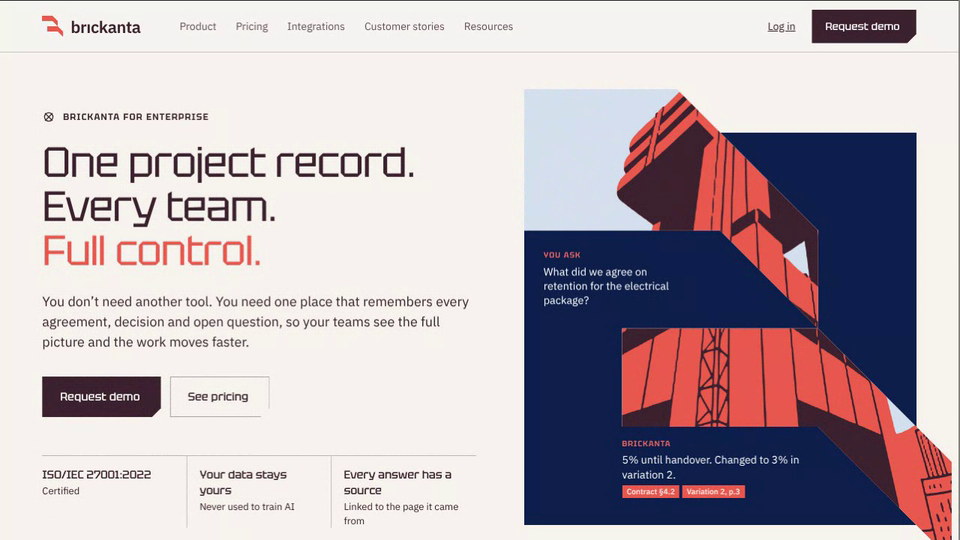
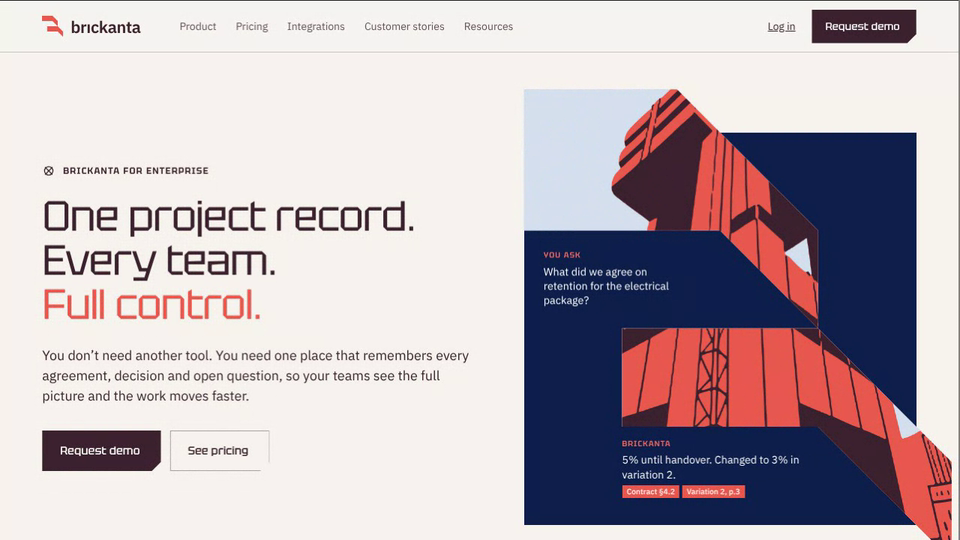
Brickanta Enterprise: remove hero facts row and cost numerals, crop hairline in the hero window
Claude-Session: https://claude.ai/code/session_01AHeBdyM2bYAGUeyg7LiTk8

diff --git a/brickanta-enterprise/index.html b/brickanta-enterprise/index.html
@@ -77,11 +77,6 @@ header nav a{text-decoration:none;opacity:.78}header nav a:hover{opacity:1;text-
 .hero h1{font-size:clamp(30px,4.4vw,68px);margin:22px 0 26px}
 .hero h1 span{display:block;white-space:nowrap}
 .hero h1 em{font-style:normal;color:var(--coral)}
-.facts{display:grid;grid-template-columns:repeat(3,1fr);margin-top:clamp(32px,4vw,56px);font-size:13px;line-height:1.4}
-.facts div{padding:16px 16px 0 0;position:relative}
-.facts div+div{padding-left:16px;border-left:1px solid rgba(60,34,46,.25)}
-.facts b{display:block;font-weight:500;font-size:15px;margin-bottom:2px}
-.hl.top{position:absolute;left:0;right:0;top:0}
 
 /* the mark as a window: coral tile, the logo's two shapes cut out, a scene seen through them */
 .tile{align-self:start;margin-top:30px;position:relative;aspect-ratio:1;background:var(--navy);width:100%;max-width:560px;justify-self:end}
@@ -91,21 +86,20 @@ header nav a{text-decoration:none;opacity:.78}header nav a:hover{opacity:1;text-
 .tile .in-a{transform:translate(-34%,-34%)}.tile .in-b{transform:translate(34%,34%)}
 .tile.go .in-a,.tile.go .in-b{transform:none}
 .tile .lines{position:absolute;inset:0;color:var(--navy);opacity:.16;background-size:auto}
-.tile .scene{position:absolute;inset:0;width:100%;height:100%}
+.tile .scene{position:absolute;left:-2%;top:-2%;width:104%;height:104%}
 .msg{z-index:3;position:absolute;font-size:clamp(11px,1.12vw,14.5px);line-height:1.35;color:#fff}
 .msg small{display:block;font-size:.72em;letter-spacing:.1em;text-transform:uppercase;font-weight:600;color:var(--coral2);margin-bottom:.45em}
 .msg .src{display:inline-block;margin-top:.5em;padding:.15em .6em;background:var(--coral);color:#fff;font-size:.72em;font-weight:500}
 .mA{left:5%;top:30%;width:38%}
 .mB{left:25%;top:78%;width:50%}
 .tile .tag{position:absolute;right:5%;bottom:4%;font-size:12px;letter-spacing:.14em;text-transform:uppercase;font-weight:600;color:#fff;opacity:.9}
-@media(max-width:860px){.hero .wrap{grid-template-columns:1fr}.tile{justify-self:start;max-width:440px}.facts{grid-template-columns:1fr}.facts div+div{border-left:0;padding-left:0;border-top:1px solid rgba(60,34,46,.25);margin-top:16px}}
-
+@media(max-width:860px){.hero .wrap{grid-template-columns:1fr}.tile{justify-self:start;max-width:440px}}
 /* the real cost */
 .cost-list{border-top:1px solid rgba(212,224,238,.55)}
-.cost-head{display:grid;grid-template-columns:118px minmax(0,1fr) minmax(0,1fr);font-size:11px;font-weight:600;letter-spacing:.16em;text-transform:uppercase;color:var(--coral2)}
+.cost-head{display:grid;grid-template-columns:minmax(0,1fr) minmax(0,1fr);font-size:11px;font-weight:600;letter-spacing:.16em;text-transform:uppercase;color:var(--coral2)}
 .cost-head span{padding-bottom:12px}
 .cost-head .hs{padding-left:clamp(24px,3vw,48px)}
-.cost{display:grid;grid-template-columns:118px minmax(0,1fr) minmax(0,1fr);border-bottom:1px solid rgba(212,224,238,.3)}
+.cost{display:grid;grid-template-columns:minmax(0,1fr) minmax(0,1fr);border-bottom:1px solid rgba(212,224,238,.3)}
 .cost>div{padding:clamp(28px,3.4vw,48px) 0}
 .cost .cp{padding-right:clamp(24px,3vw,48px)}
 .cost .cs{padding-left:clamp(24px,3vw,48px);border-left:1px solid rgba(212,224,238,.4)}
@@ -113,7 +107,7 @@ header nav a{text-decoration:none;opacity:.78}header nav a:hover{opacity:1;text-
 .cost q{display:block;quotes:none;font-size:clamp(20px,2vw,28px);font-weight:300;line-height:1.25;letter-spacing:-.01em;color:#fff}
 .cost h3{font-size:clamp(20px,2vw,28px);color:#fff;margin-bottom:10px}
 .cost p{opacity:.78;font-size:16px}
-@media(max-width:860px){.cost-head{display:none}.cost{grid-template-columns:1fr;padding:28px 0}.cost>div{padding:0}.cost>div+div{margin-top:20px}.cost .cs{border-left:0;padding-left:0}.cost .n{font-size:40px}
+@media(max-width:860px){.cost-head{display:none}.cost{grid-template-columns:1fr;padding:28px 0}.cost>div{padding:0}.cost>div+div{margin-top:20px}.cost .cs{border-left:0;padding-left:0}
 .cost>div[data-l]::before{content:attr(data-l);display:block;font-size:11px;font-weight:600;letter-spacing:.16em;text-transform:uppercase;color:var(--coral2);margin-bottom:10px}}
 
 /* one system: tabbed showcase */
@@ -353,11 +347,7 @@ h1,h2,h3,.cost q,.tabs .t,.card .big,.faq summary,footer .tag{letter-spacing:-.0
       <h1 class="rv" style="--d:.08s"><span>One project record.</span> <span>Every team.</span> <span><em>Full control.</em></span></h1>
       <p class="lede rv" style="--d:.16s">You don’t need another tool. You need one place that remembers every agreement, decision and open question, so your teams see the full picture and the work moves faster.</p>
       <div class="row-btns rv" style="--d:.24s"><a class="btn" href="#demo">Request demo</a><a class="btn alt" href="#pricing">See pricing</a></div>
-      <div class="facts rv" style="--d:.32s">
-        <div><span class="hl top"></span><b>ISO/IEC 27001:2022</b>Certified</div>
-        <div><span class="hl top"></span><b>Your data stays yours</b>Never used to train AI</div>
-        <div><span class="hl top"></span><b>Every answer has a source</b>Linked to the page it came from</div>
-      </div>
+      
     </div>
     <div class="tile" id="tile" role="img" aria-label="A coral tile with two angled windows in the shape of the Brickanta logo, showing a tower seen from below in maroon and coral, with a question about retention and its sourced answer.">
       <div class="win winA"><div class="in-a"><svg class="scene"><use href="#ill"/></svg></div></div>
@@ -376,11 +366,11 @@ h1,h2,h3,.cost q,.tabs .t,.card .big,.faq summary,footer .tag{letter-spacing:-.0
       <h2 class="rv">You can’t run a big project on lost knowledge</h2>
       <p class="lede rv" style="--d:.1s">When what you agreed lives in inboxes and in people’s heads, it’s gone the moment they move on.</p>
     </div>
-    <div class="cost-head" aria-hidden="true"><span></span><span class="hp">The problem</span><span class="hs">The solution</span></div>
+    <div class="cost-head" aria-hidden="true"><span class="hp">The problem</span><span class="hs">The solution</span></div>
     <div class="cost-list">
-      <div class="cost rv"><div class="n">01</div><div class="cp" data-l="The problem"><q>“Every project keeps its facts somewhere different. Nobody knows which version is right.”</q></div><div class="cs" data-l="The solution"><h3>One record for the whole team</h3><p>Everyone works from the same project. A problem shows up early, on the work package it affects.</p></div></div>
-      <div class="cost rv"><div class="n">02</div><div class="cp" data-l="The problem"><q>“We only saw the invoice didn’t match the contract after it was paid.”</q></div><div class="cs" data-l="The solution"><h3>Catch it while there’s time</h3><p>An invoice that differs from the contract, or a delivery that puts the schedule at risk, is flagged as soon as the files arrive.</p></div></div>
-      <div class="cost rv"><div class="n">03</div><div class="cp" data-l="The problem"><q>“When people leave, what they agreed leaves with them.”</q></div><div class="cs" data-l="The solution"><h3>Keep what you learn</h3><p>Decisions, suppliers and lessons stay with the project and are there for the next one, even when people move on.</p></div></div>
+      <div class="cost rv"><div class="cp" data-l="The problem"><q>“Every project keeps its facts somewhere different. Nobody knows which version is right.”</q></div><div class="cs" data-l="The solution"><h3>One record for the whole team</h3><p>Everyone works from the same project. A problem shows up early, on the work package it affects.</p></div></div>
+      <div class="cost rv"><div class="cp" data-l="The problem"><q>“We only saw the invoice didn’t match the contract after it was paid.”</q></div><div class="cs" data-l="The solution"><h3>Catch it while there’s time</h3><p>An invoice that differs from the contract, or a delivery that puts the schedule at risk, is flagged as soon as the files arrive.</p></div></div>
+      <div class="cost rv"><div class="cp" data-l="The problem"><q>“When people leave, what they agreed leaves with them.”</q></div><div class="cs" data-l="The solution"><h3>Keep what you learn</h3><p>Decisions, suppliers and lessons stay with the project and are there for the next one, even when people move on.</p></div></div>
     </div>
   </div>
 </section>
